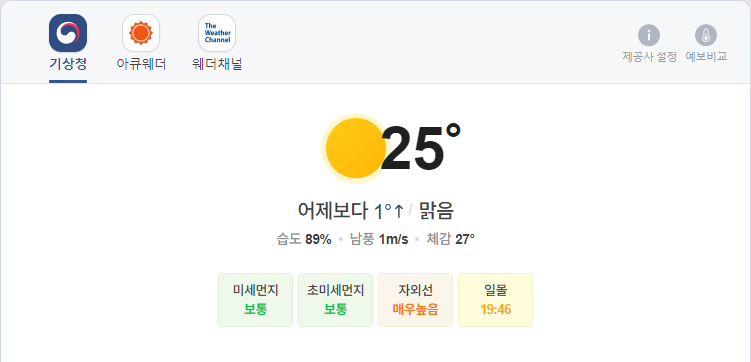
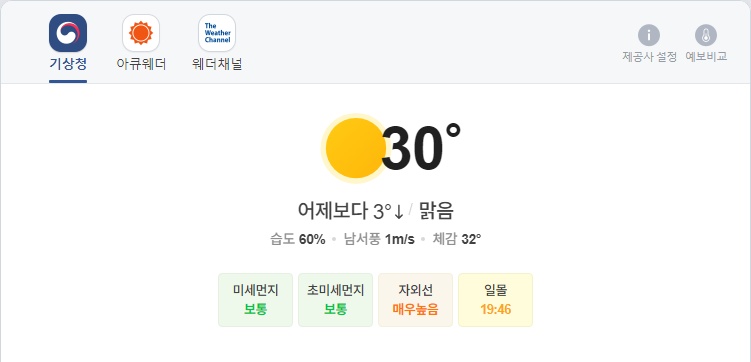
update result

diff --git a/README.md b/README.md
@@ -1,5 +1,5 @@
-##  2021-07-28 05:55:30   수요일 
-##### 날씨   -   어제보다 1° 높아요맑음  
+##  2021-07-28 09:17:13   수요일 
+##### 날씨   -   어제보다 3° 낮아요맑음  
 <center><img src="../img/naver_weather_week.png"></center>
 ----
 ----
@@ -23,40 +23,40 @@
 ##### 시장
 <table border="1" bordercolor="blue" align = "center" >
 <tr align = "right" > <td>Item</td><td>Price</td><td>Diff</td><td>Rate</td><td>Buy</td><td>Sell</td><td>...</td>  </tr>
-<tr align = "right" > <td>USD</td><td>1,154.0</td><td>-1.0</td><td><font size="3" color="blue">-0.09%</font></td><td><font size="3" color="black">1,110</font></td><td><font size="3" color="black">0</font></td><td>0</td>  </tr>
-<tr align = "right" > <td>WTI</td><td>71.91</td><td>-0.16</td><td><font size="3" color="blue">-0.22%</font></td><td><font size="3" color="black">29.0</font></td><td><font size="3" color="black">0</font></td><td>0</td>  </tr>
-<tr align = "right" > <td>GOLD</td><td>1,799.0</td><td>-2.6</td><td><font size="3" color="blue">-0.14%</font></td><td><font size="3" color="black">0</font></td><td><font size="3" color="black">0</font></td><td>0</td>  </tr>
+<tr align = "right" > <td>USD</td><td>1,154.0</td><td>0.2</td><td><font size="3" color="red">0.02%</font></td><td><font size="3" color="black">1,110</font></td><td><font size="3" color="black">0</font></td><td>0</td>  </tr>
+<tr align = "right" > <td>WTI</td><td>71.65</td><td>-0.26</td><td><font size="3" color="blue">-0.36%</font></td><td><font size="3" color="black">29.0</font></td><td><font size="3" color="black">0</font></td><td>0</td>  </tr>
+<tr align = "right" > <td>GOLD</td><td>1,799.0</td><td>0.6</td><td><font size="3" color="red">0.03%</font></td><td><font size="3" color="black">0</font></td><td><font size="3" color="black">0</font></td><td>0</td>  </tr>
 </table>
 ----
 ##### 주가
 <table border="1" bordercolor="blue" align = "center" >
 <tr align = "right" > <td>Item</td><td>Price</td><td>Diff</td><td>Rate</td><td>Purchased</td><td>Sell</td><td>Buy</td>  </tr>
-<tr align = "right" > <td>한국 전력</td><td>24,750</td><td>-150</td><td><font size="3" color="blue">-0.6%</font></td><td>25,720</td><td><font size="3" color="black">27,700</font></td><td><font size="3" color="black">20,700</font></td>  </tr>
-<tr align = "right" > <td>삼성엔지니어.</td><td>23,850</td><td>950</td><td><font size="3" color="red">4.15%</font></td><td>18,935</td><td><font size="3" color="black">20,000</font></td><td><font size="3" color="black">8,000</font></td>  </tr>
-<tr align = "right" > <td>CJ CGV</td><td>30,600</td><td>1,100</td><td><font size="3" color="red">3.73%</font></td><td>34,895</td><td><font size="3" color="black">36,000</font></td><td><font size="3" color="black">0</font></td>  </tr>
-<tr align = "right" > <td>아모레퍼시픽</td><td>237,000</td><td>3,000</td><td><font size="3" color="red">1.28%</font></td><td>235,350</td><td><font size="3" color="black">240,000</font></td><td><font size="3" color="black">130,000</font></td>  </tr>
-<tr align = "right" > <td>한화</td><td>30,100</td><td>0</td><td><font size="3" color="black">0.0%</font></td><td>25,550</td><td><font size="3" color="black">26,250</font></td><td><font size="3" color="black">26,250</font></td>  </tr>
-<tr align = "right" > <td>NAVER</td><td>452,000</td><td>0</td><td><font size="3" color="black">0.0%</font></td><td>147,200</td><td><font size="3" color="black">386,000</font></td><td><font size="3" color="black">286,000</font></td>  </tr>
-<tr align = "right" > <td>LG 화학우</td><td>378,500</td><td>1,500</td><td><font size="3" color="red">0.4%</font></td><td>202,490</td><td><font size="3" color="black">384,000</font></td><td><font size="3" color="orangered">384,000</font></td>  </tr>
-<tr align = "right" > <td>스튜디오드래.</td><td>93,700</td><td>-500</td><td><font size="3" color="blue">-0.53%</font></td><td>81,243</td><td><font size="3" color="black">85,200</font></td><td><font size="3" color="black">85,200</font></td>  </tr>
-<tr align = "right" > <td>QV미국IT</td><td>32,460</td><td>125</td><td><font size="3" color="red">0.39%</font></td><td>0</td><td><font size="3" color="black">30,000</font></td><td><font size="3" color="black">20,000</font></td>  </tr>
-<tr align = "right" > <td>삼성 전자우</td><td>72,500</td><td>-400</td><td><font size="3" color="blue">-0.55%</font></td><td>60,675</td><td><font size="3" color="black">76,000</font></td><td><font size="3" color="black">55,000</font></td>  </tr>
-<tr align = "right" > <td>LS</td><td>72,800</td><td>2,300</td><td><font size="3" color="red">3.26%</font></td><td>71,900</td><td><font size="3" color="black">82,000</font></td><td><font size="3" color="black">60,000</font></td>  </tr>
+<tr align = "right" > <td>한국 전력</td><td>24,800</td><td>50</td><td><font size="3" color="red">0.2%</font></td><td>25,720</td><td><font size="3" color="black">27,700</font></td><td><font size="3" color="black">20,700</font></td>  </tr>
+<tr align = "right" > <td>삼성엔지니어.</td><td>23,700</td><td>-150</td><td><font size="3" color="blue">-0.63%</font></td><td>18,935</td><td><font size="3" color="black">20,000</font></td><td><font size="3" color="black">8,000</font></td>  </tr>
+<tr align = "right" > <td>CJ CGV</td><td>30,300</td><td>-300</td><td><font size="3" color="blue">-0.98%</font></td><td>34,895</td><td><font size="3" color="black">36,000</font></td><td><font size="3" color="black">0</font></td>  </tr>
+<tr align = "right" > <td>아모레퍼시픽</td><td>236,000</td><td>-1,000</td><td><font size="3" color="blue">-0.42%</font></td><td>235,350</td><td><font size="3" color="black">240,000</font></td><td><font size="3" color="black">130,000</font></td>  </tr>
+<tr align = "right" > <td>한화</td><td>30,200</td><td>100</td><td><font size="3" color="red">0.33%</font></td><td>25,550</td><td><font size="3" color="black">26,250</font></td><td><font size="3" color="black">26,250</font></td>  </tr>
+<tr align = "right" > <td>NAVER</td><td>442,500</td><td>-9,500</td><td><font size="3" color="blue">-2.1%</font></td><td>147,200</td><td><font size="3" color="black">386,000</font></td><td><font size="3" color="black">286,000</font></td>  </tr>
+<tr align = "right" > <td>LG 화학우</td><td>376,500</td><td>-2,000</td><td><font size="3" color="blue">-0.53%</font></td><td>202,490</td><td><font size="3" color="black">384,000</font></td><td><font size="3" color="orangered">384,000</font></td>  </tr>
+<tr align = "right" > <td>스튜디오드래.</td><td>93,400</td><td>-300</td><td><font size="3" color="blue">-0.32%</font></td><td>81,243</td><td><font size="3" color="black">85,200</font></td><td><font size="3" color="black">85,200</font></td>  </tr>
+<tr align = "right" > <td>QV미국IT</td><td>32,020</td><td>-440</td><td><font size="3" color="blue">-1.36%</font></td><td>0</td><td><font size="3" color="black">30,000</font></td><td><font size="3" color="black">20,000</font></td>  </tr>
+<tr align = "right" > <td>삼성 전자우</td><td>72,200</td><td>-300</td><td><font size="3" color="blue">-0.41%</font></td><td>60,675</td><td><font size="3" color="black">76,000</font></td><td><font size="3" color="black">55,000</font></td>  </tr>
+<tr align = "right" > <td>LS</td><td>72,900</td><td>100</td><td><font size="3" color="red">0.14%</font></td><td>71,900</td><td><font size="3" color="black">82,000</font></td><td><font size="3" color="black">60,000</font></td>  </tr>
 <tr align = "right" > <td>한화에어로스.</td><td>50,900</td><td>0</td><td><font size="3" color="black">0.0%</font></td><td>25,700</td><td><font size="3" color="black">30,000</font></td><td><font size="3" color="black">24,000</font></td>  </tr>
-<tr align = "right" > <td>한화시스템.</td><td>16,950</td><td>100</td><td><font size="3" color="red">0.59%</font></td><td>16,875</td><td><font size="3" color="black">30,000</font></td><td><font size="3" color="black">14,000</font></td>  </tr>
-<tr align = "right" > <td>카카오</td><td>148,000</td><td>500</td><td><font size="3" color="red">0.34%</font></td><td>405,500</td><td><font size="3" color="black">440,000</font></td><td><font size="3" color="orangered">400,000</font></td>  </tr>
-<tr align = "right" > <td>호텔 신라</td><td>93,700</td><td>500</td><td><font size="3" color="red">0.54%</font></td><td>88,650</td><td><font size="3" color="black">100,000</font></td><td><font size="3" color="black">70,000</font></td>  </tr>
-<tr align = "right" > <td>S-Oil</td><td>98,400</td><td>1,700</td><td><font size="3" color="red">1.76%</font></td><td>62,842</td><td><font size="3" color="black">100,000</font></td><td><font size="3" color="black">50,000</font></td>  </tr>
-<tr align = "right" > <td>LG전자</td><td>163,000</td><td>0</td><td><font size="3" color="black">0.0%</font></td><td>82,022</td><td><font size="3" color="black">100,000</font></td><td><font size="3" color="black">60,000</font></td>  </tr>
+<tr align = "right" > <td>한화시스템.</td><td>16,900</td><td>-50</td><td><font size="3" color="blue">-0.29%</font></td><td>16,875</td><td><font size="3" color="black">30,000</font></td><td><font size="3" color="black">14,000</font></td>  </tr>
+<tr align = "right" > <td>카카오</td><td>148,500</td><td>500</td><td><font size="3" color="red">0.34%</font></td><td>405,500</td><td><font size="3" color="black">440,000</font></td><td><font size="3" color="orangered">400,000</font></td>  </tr>
+<tr align = "right" > <td>호텔 신라</td><td>93,500</td><td>-200</td><td><font size="3" color="blue">-0.21%</font></td><td>88,650</td><td><font size="3" color="black">100,000</font></td><td><font size="3" color="black">70,000</font></td>  </tr>
+<tr align = "right" > <td>S-Oil</td><td>98,400</td><td>0</td><td><font size="3" color="black">0.0%</font></td><td>62,842</td><td><font size="3" color="black">100,000</font></td><td><font size="3" color="black">50,000</font></td>  </tr>
+<tr align = "right" > <td>LG전자</td><td>162,500</td><td>-500</td><td><font size="3" color="blue">-0.31%</font></td><td>82,022</td><td><font size="3" color="black">100,000</font></td><td><font size="3" color="black">60,000</font></td>  </tr>
 <tr align = "right" > <td>KT&G</td><td>82,600</td><td>0</td><td><font size="3" color="black">0.0%</font></td><td>79,700</td><td><font size="3" color="black">100,000</font></td><td><font size="3" color="black">70,000</font></td>  </tr>
-<tr align = "right" > <td>지역난방공사</td><td>42,050</td><td>100</td><td><font size="3" color="red">0.24%</font></td><td>43,590</td><td><font size="3" color="black">60,000</font></td><td><font size="3" color="black">30,000</font></td>  </tr>
-<tr align = "right" > <td>맥쿼리인프라</td><td>12,350</td><td>-50</td><td><font size="3" color="blue">-0.4%</font></td><td>12,577</td><td><font size="3" color="black">30,000</font></td><td><font size="3" color="black">10,000</font></td>  </tr>
-<tr align = "right" > <td>KOEDX은행</td><td>7,335</td><td>55</td><td><font size="3" color="red">0.76%</font></td><td>7,578</td><td><font size="3" color="black">8,825</font></td><td><font size="3" color="black">6,225</font></td>  </tr>
-<tr align = "right" > <td>글로벌럭셔리</td><td>18,080</td><td>10</td><td><font size="3" color="red">0.06%</font></td><td>16,302</td><td><font size="3" color="black">20,000</font></td><td><font size="3" color="black">10,000</font></td>  </tr>
-<tr align = "right" > <td>TIRGER200건설</td><td>3,350</td><td>20</td><td><font size="3" color="red">0.6%</font></td><td>3,440</td><td><font size="3" color="black">4,000</font></td><td><font size="3" color="black">3,000</font></td>  </tr>
-<tr align = "right" > <td>KODEXK미래차</td><td>10,900</td><td>55</td><td><font size="3" color="red">0.51%</font></td><td>10,955</td><td><font size="3" color="black">20,000</font></td><td><font size="3" color="black">10,000</font></td>  </tr>
-<tr align = "right" > <td>TIGER글로벌BBIG</td><td>11,430</td><td>-110</td><td><font size="3" color="blue">-0.95%</font></td><td>11,020</td><td><font size="3" color="black">20,000</font></td><td><font size="3" color="black">10,000</font></td>  </tr>
-<tr align = "right" > <td>TIGER퓨처모빌리티</td><td>11,090</td><td>5</td><td><font size="3" color="red">0.05%</font></td><td>10,695</td><td><font size="3" color="black">20,000</font></td><td><font size="3" color="black">10,000</font></td>  </tr>
-<tr align = "right" > <td>한국금융지주</td><td>98,900</td><td>-6,100</td><td><font size="3" color="blue">-5.81%</font></td><td>0</td><td><font size="3" color="black">82,000</font></td><td><font size="3" color="black">60,000</font></td>  </tr>
+<tr align = "right" > <td>지역난방공사</td><td>41,950</td><td>-100</td><td><font size="3" color="blue">-0.24%</font></td><td>43,590</td><td><font size="3" color="black">60,000</font></td><td><font size="3" color="black">30,000</font></td>  </tr>
+<tr align = "right" > <td>맥쿼리인프라</td><td>12,350</td><td>0</td><td><font size="3" color="black">0.0%</font></td><td>12,577</td><td><font size="3" color="black">30,000</font></td><td><font size="3" color="black">10,000</font></td>  </tr>
+<tr align = "right" > <td>KOEDX은행</td><td>7,315</td><td>-20</td><td><font size="3" color="blue">-0.27%</font></td><td>7,578</td><td><font size="3" color="black">8,825</font></td><td><font size="3" color="black">6,225</font></td>  </tr>
+<tr align = "right" > <td>글로벌럭셔리</td><td>18,030</td><td>-50</td><td><font size="3" color="blue">-0.28%</font></td><td>16,302</td><td><font size="3" color="black">20,000</font></td><td><font size="3" color="black">10,000</font></td>  </tr>
+<tr align = "right" > <td>TIRGER200건설</td><td>3,355</td><td>5</td><td><font size="3" color="red">0.15%</font></td><td>3,440</td><td><font size="3" color="black">4,000</font></td><td><font size="3" color="black">3,000</font></td>  </tr>
+<tr align = "right" > <td>KODEXK미래차</td><td>10,855</td><td>-45</td><td><font size="3" color="blue">-0.41%</font></td><td>10,955</td><td><font size="3" color="black">20,000</font></td><td><font size="3" color="black">10,000</font></td>  </tr>
+<tr align = "right" > <td>TIGER글로벌BBIG</td><td>11,240</td><td>-190</td><td><font size="3" color="blue">-1.66%</font></td><td>11,020</td><td><font size="3" color="black">20,000</font></td><td><font size="3" color="black">10,000</font></td>  </tr>
+<tr align = "right" > <td>TIGER퓨처모빌리티</td><td>11,050</td><td>-40</td><td><font size="3" color="blue">-0.36%</font></td><td>10,695</td><td><font size="3" color="black">20,000</font></td><td><font size="3" color="black">10,000</font></td>  </tr>
+<tr align = "right" > <td>한국금융지주</td><td>99,400</td><td>500</td><td><font size="3" color="red">0.51%</font></td><td>0</td><td><font size="3" color="black">82,000</font></td><td><font size="3" color="black">60,000</font></td>  </tr>
 </table>
 ----
